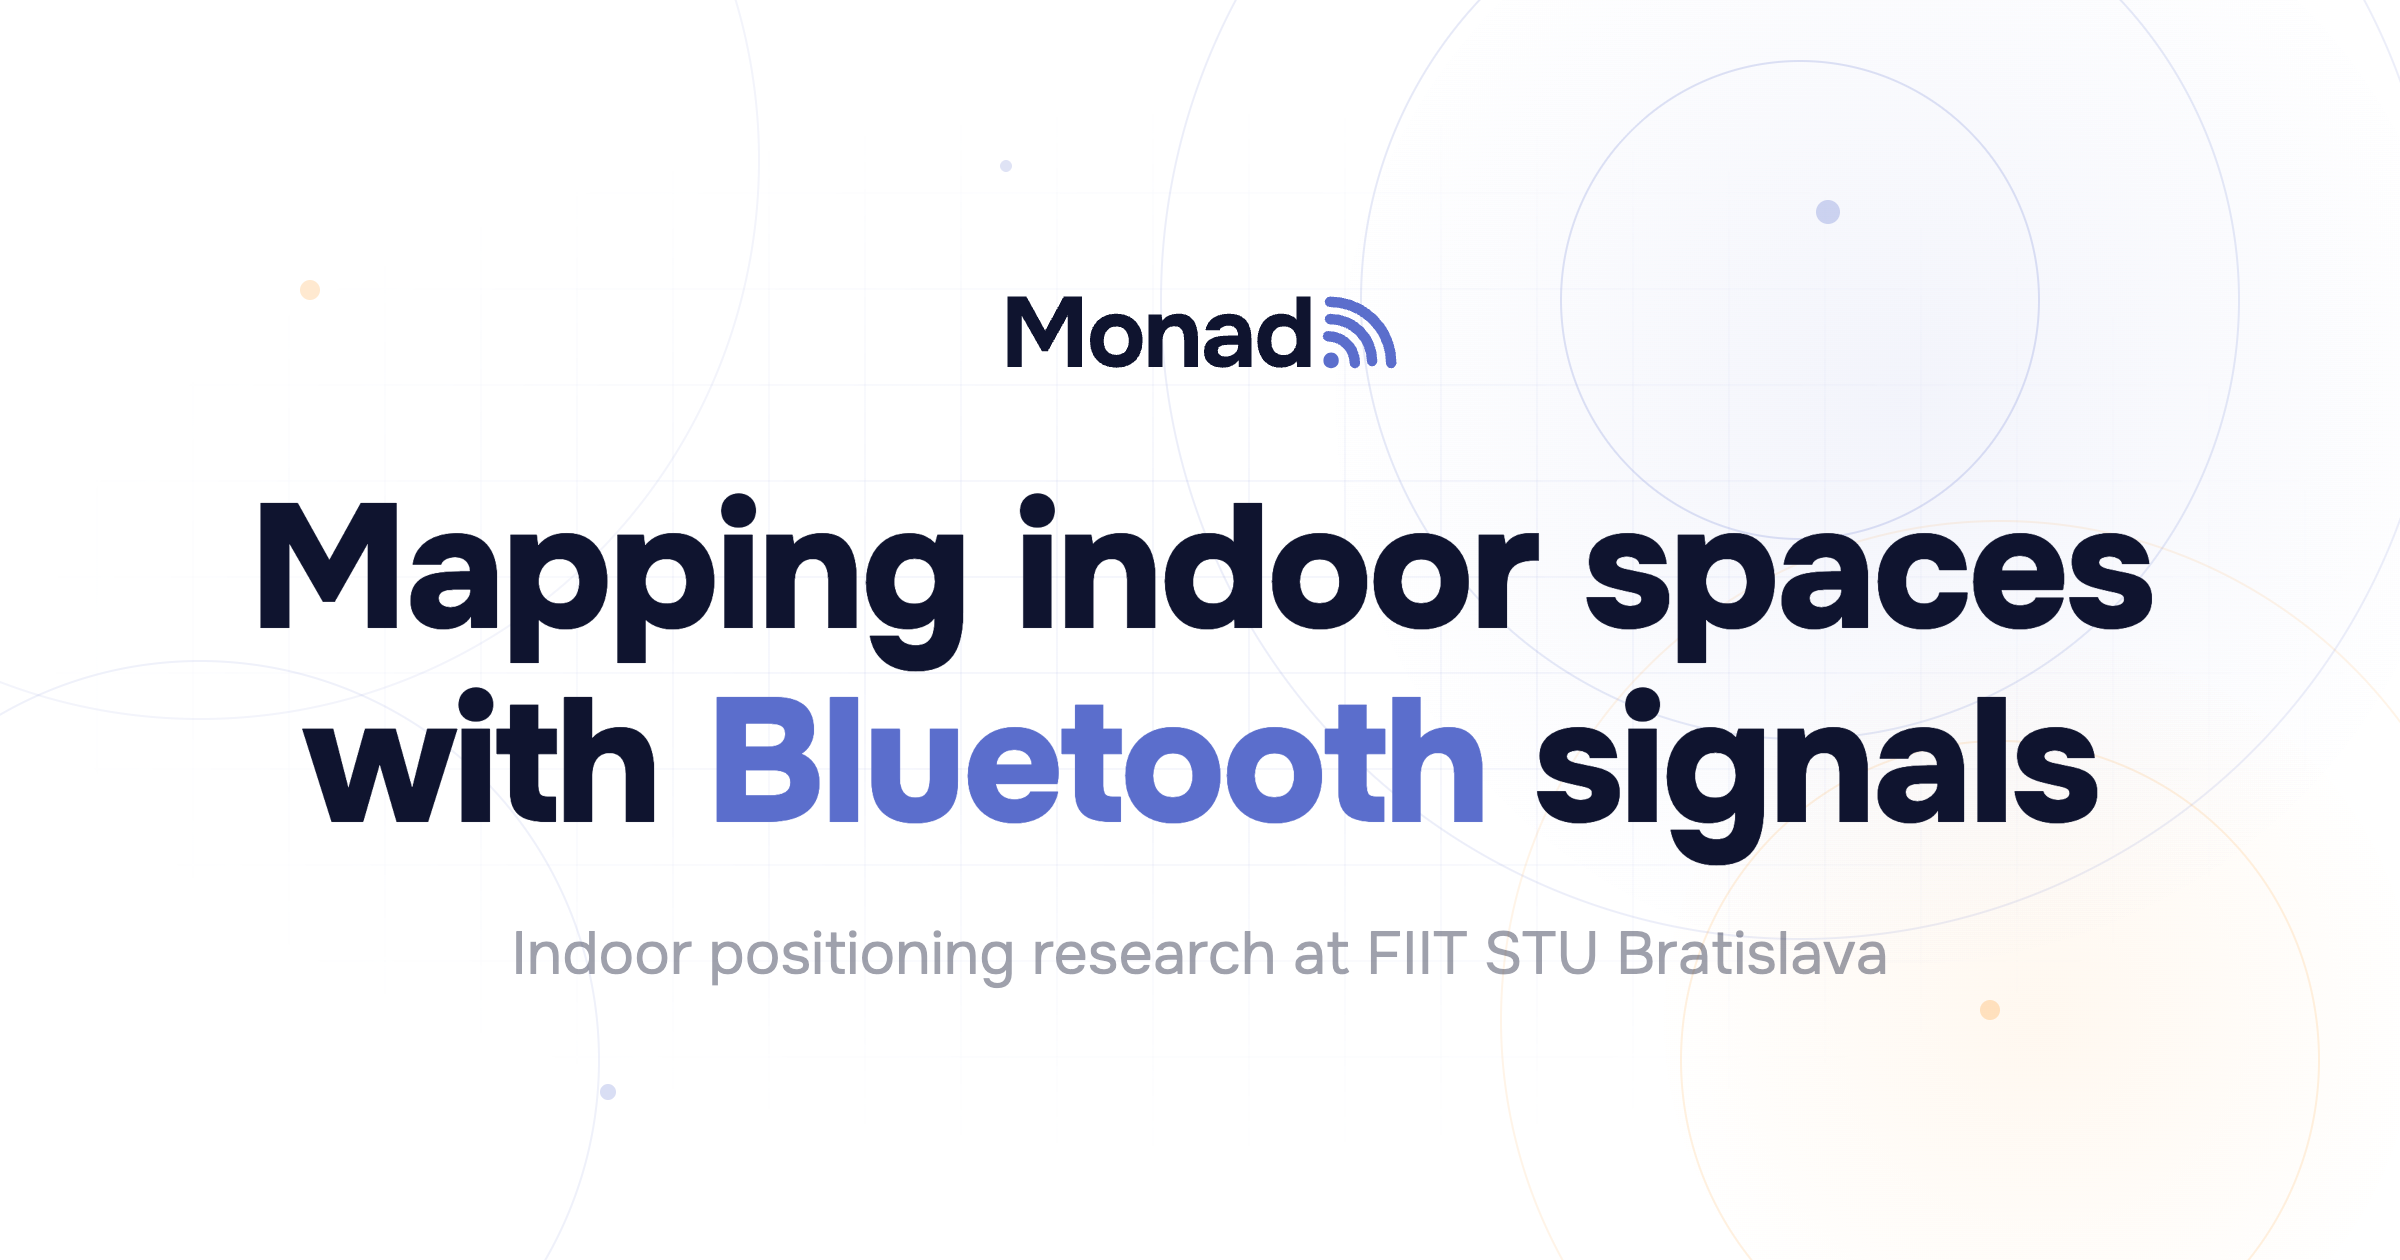
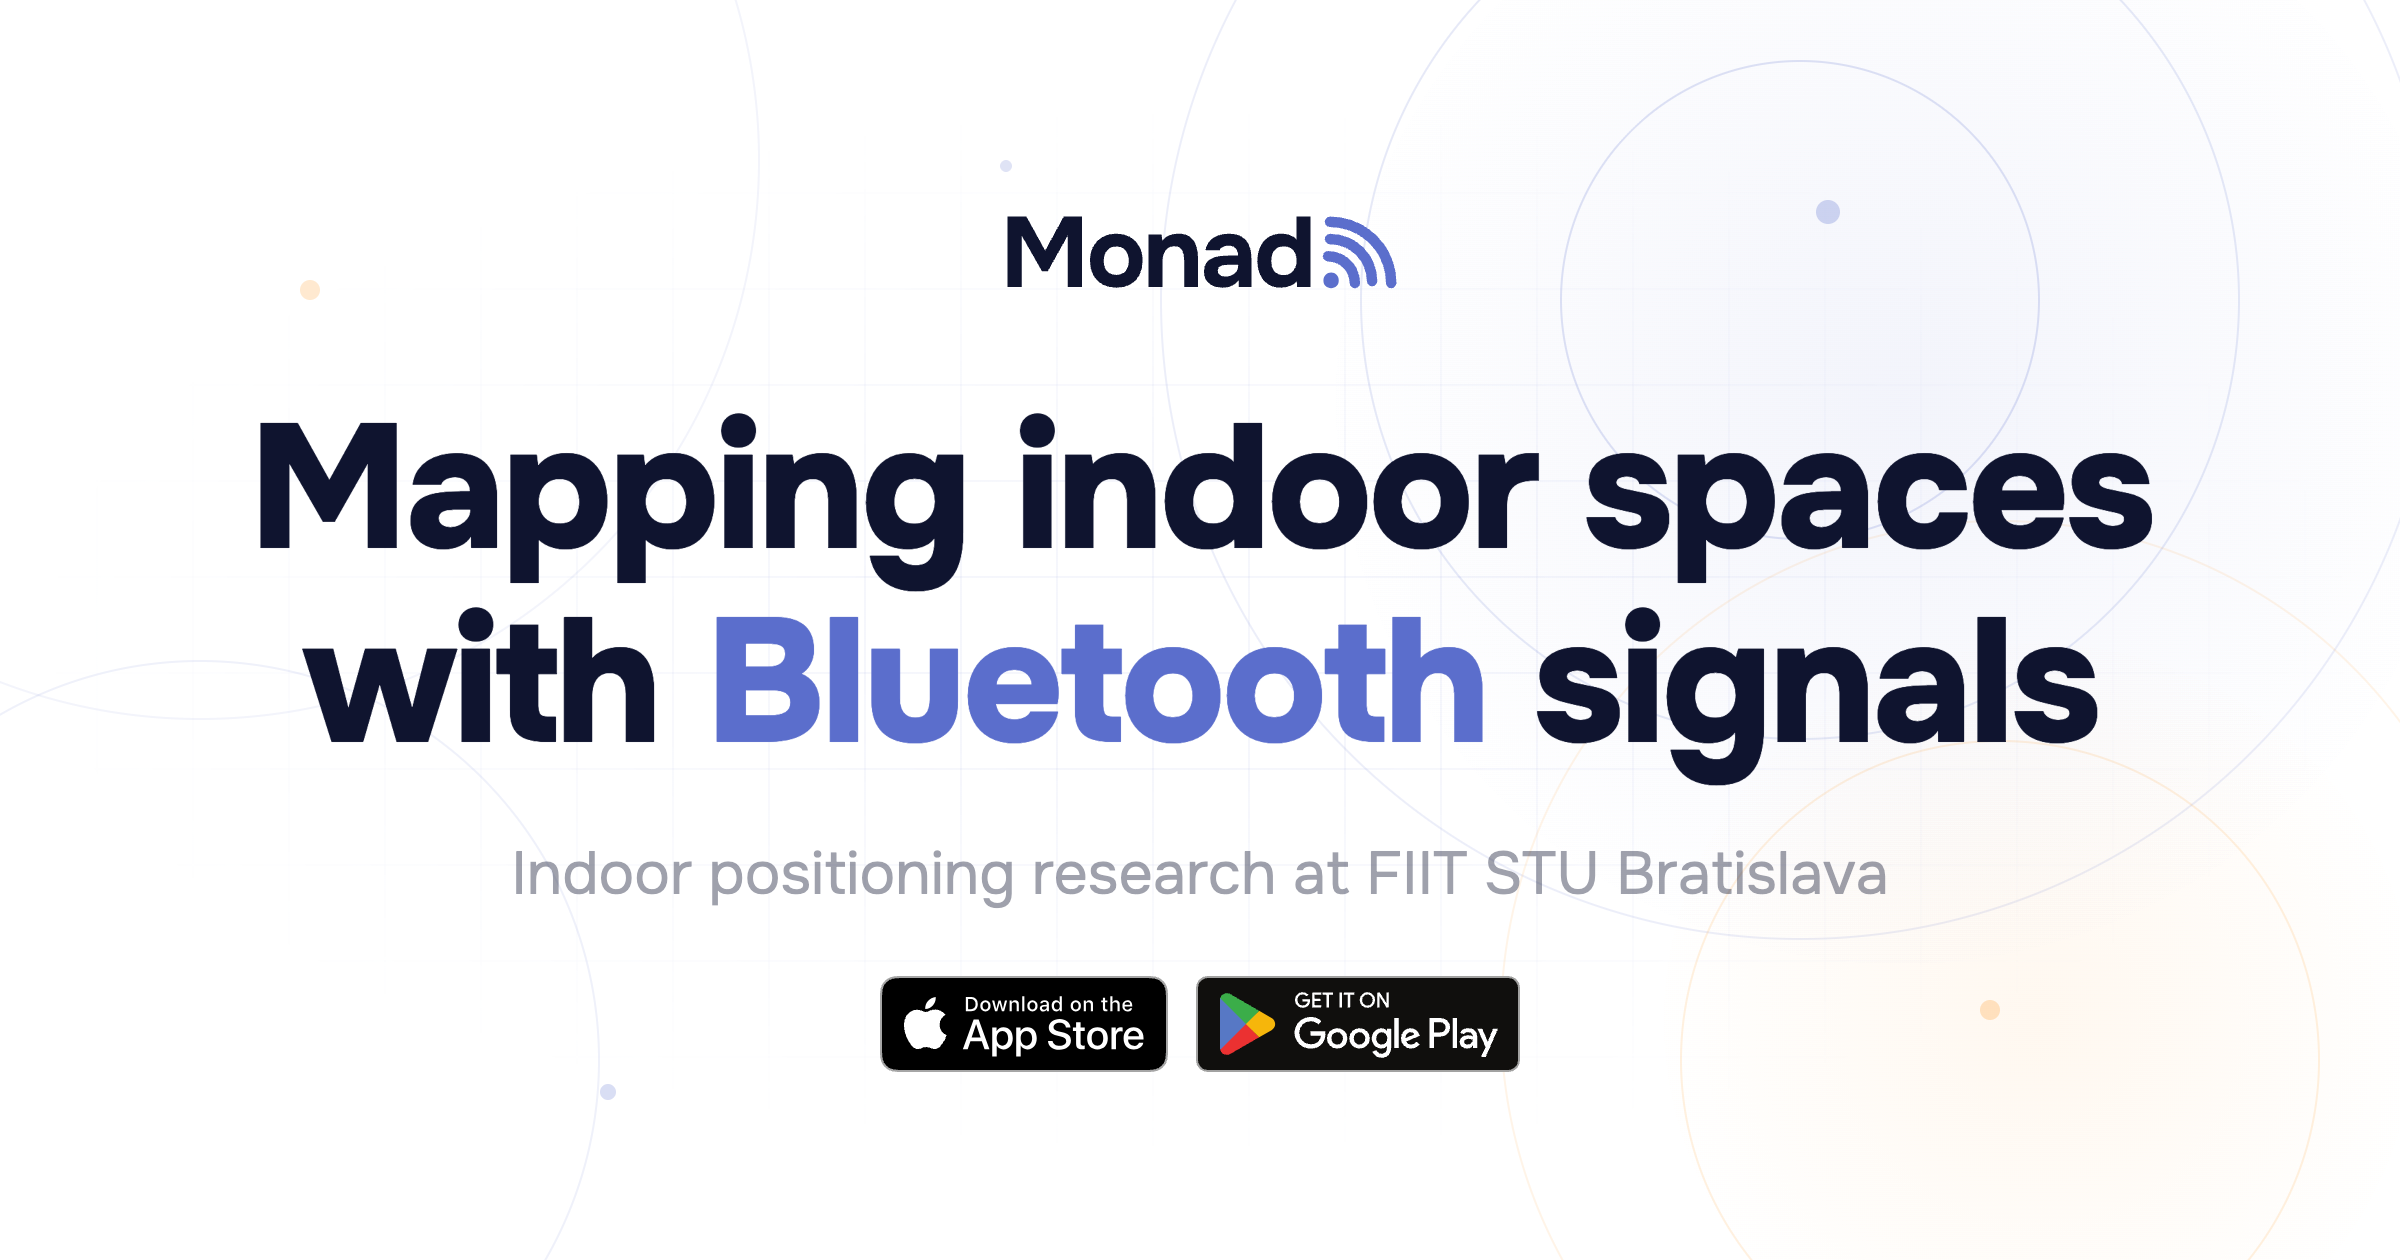
UI fixed

Changed region(s): [[0.0938, 0.3095, 0.9062, 0.7119], [0.2188, 0.7429, 0.7812, 0.8667], [0.4062, 0.1548, 0.5938, 0.3095]]

diff --git a/backend/monad-backend/public/index.html b/backend/monad-backend/public/index.html
@@ -85,7 +85,7 @@
     /* ---- HERO ---- */
     .hero {
       display: flex; align-items: center;
-      padding: 8rem 2rem 6rem; position: relative;
+      padding: 8rem 2rem 4rem; position: relative;
       background: var(--white);
       color: var(--dark);
       overflow: visible;
@@ -117,7 +117,18 @@
     h1 .primary-text { color: var(--primary); opacity: 0.7; }
 
     .hero-desc { font-size: 1.1rem; line-height: 1.7; color: var(--dark-60); max-width: 480px; margin-bottom: 2rem; }
-    .hero-actions { display: flex; gap: 12px; flex-wrap: wrap; }
+    .hero-actions { display: flex; gap: 12px; flex-wrap: wrap; margin-bottom: 1.5rem; }
+    .store-badge { display: inline-block; transition: transform 0.2s, opacity 0.2s; border-radius: 8px; overflow: hidden; }
+    .store-badge:hover { transform: translateY(-2px); opacity: 0.85; }
+    .store-badge img { display: block; }
+    .hero-learn-more {
+      display: inline-flex; align-items: center; gap: 6px;
+      font-size: 0.9rem; font-weight: 500; color: var(--dark-40);
+      text-decoration: none; transition: color 0.2s;
+    }
+    .hero-learn-more:hover { color: var(--primary); }
+    .hero-learn-more svg { transition: transform 0.2s; }
+    .hero-learn-more:hover svg { transform: translateY(2px); }
 
     .btn {
       display: inline-flex; align-items: center; justify-content: center; gap: 8px;
@@ -373,6 +384,8 @@
     .hero-mobile-circles .d3 { width: 4px; height: 4px; background: var(--primary); opacity: 0.15; bottom: 30%; left: 30%; }
 
     /* ---- ANIMATIONS ---- */
+    @keyframes hero-fade-in { from { opacity: 0; transform: translateY(18px); } to { opacity: 1; transform: translateY(0); } }
+    .hero-fade { opacity: 0; animation: hero-fade-in 0.6s ease forwards; }
     .fade-in { opacity: 0; transform: translateY(20px); transition: opacity 0.6s ease, transform 0.6s ease; }
     .fade-in.visible { opacity: 1; transform: translateY(0); }
 
@@ -488,15 +501,16 @@
   </div>
   <div class="container">
     <div class="hero-content">
-      <div class="hero-badge"><span class="dot"></span> Research Experiment</div>
-      <h1>Mapping indoor spaces with <span class="accent-text">Bluetooth</span> signals</h1>
-      <p class="hero-desc">Monad Scan is a mobile research app that collects BLE beacon data through interactive quests. Help us build precise indoor positioning datasets at the FIIT STU library in Bratislava.</p>
-      <div class="hero-actions">
-        <a href="#" class="btn btn-primary"><svg width="16" height="20" viewBox="0 0 24 24" fill="currentColor"><path d="M12.152 6.896c-.948 0-2.415-1.078-3.96-1.04-2.04.027-3.91 1.183-4.961 3.014-2.117 3.675-.546 9.103 1.519 12.09 1.013 1.454 2.208 3.09 3.792 3.039 1.52-.065 2.09-.987 3.935-.987 1.831 0 2.35.987 3.96.948 1.637-.026 2.676-1.48 3.676-2.948 1.156-1.688 1.636-3.325 1.662-3.415-.039-.013-3.182-1.221-3.22-4.857-.026-3.04 2.48-4.494 2.597-4.559-1.429-2.09-3.623-2.324-4.39-2.376-2-.156-3.675 1.09-4.61 1.09zM15.53 3.83c.843-1.012 1.4-2.427 1.245-3.83-1.207.052-2.662.805-3.532 1.818-.78.896-1.454 2.338-1.273 3.714 1.338.104 2.715-.688 3.559-1.701"/></svg> App Store</a>
-        <a href="#" class="btn btn-primary"><svg width="16" height="18" viewBox="0 0 24 24" fill="currentColor"><path d="M22.018 13.298l-3.919 2.218-3.515-3.493 3.543-3.521 3.891 2.202a1.49 1.49 0 0 1 0 2.594zM1.337.924a1.486 1.486 0 0 0-.112.568v21.017c0 .217.045.419.124.6l11.155-11.087L1.337.924zm12.207 10.065l3.258-3.238L3.45.195a1.466 1.466 0 0 0-.946-.179l11.04 10.973zm0 2.067l-11 10.933c.298.036.612-.016.906-.183l13.324-7.54-3.23-3.21z"/></svg> Google Play</a>
+      <div class="hero-badge hero-fade" style="animation-delay:0.1s"><span class="dot"></span> Research Experiment</div>
+      <h1 class="hero-fade" style="animation-delay:0.25s">Mapping indoor spaces with <span class="accent-text">Bluetooth</span> signals</h1>
+      <p class="hero-desc hero-fade" style="animation-delay:0.4s">Monad Scan is a mobile research app that collects BLE beacon data through interactive quests. Help us build precise indoor positioning datasets at the FIIT STU library in Bratislava.</p>
+      <div class="hero-actions hero-fade" style="animation-delay:0.55s">
+        <a href="#" class="store-badge"><img src="/app-store-badge.svg" alt="Download on the App Store" height="44"></a>
+        <a href="#" class="store-badge"><img src="/google-play-badge.svg" alt="Get it on Google Play" height="44"></a>
       </div>
+      <a href="#about" class="hero-learn-more hero-fade" style="animation-delay:0.7s">Learn more <svg width="14" height="14" viewBox="0 0 24 24" fill="none" stroke="currentColor" stroke-width="2" stroke-linecap="round"><path d="M12 5v14M5 12l7 7 7-7"/></svg></a>
     </div>
-    <div class="hero-visual">
+    <div class="hero-visual hero-fade" style="animation-delay:0.5s">
       <div class="hero-illustration">
         <svg viewBox="10 10 450 390" fill="none" xmlns="http://www.w3.org/2000/svg">
           <!-- Signal arcs -->
